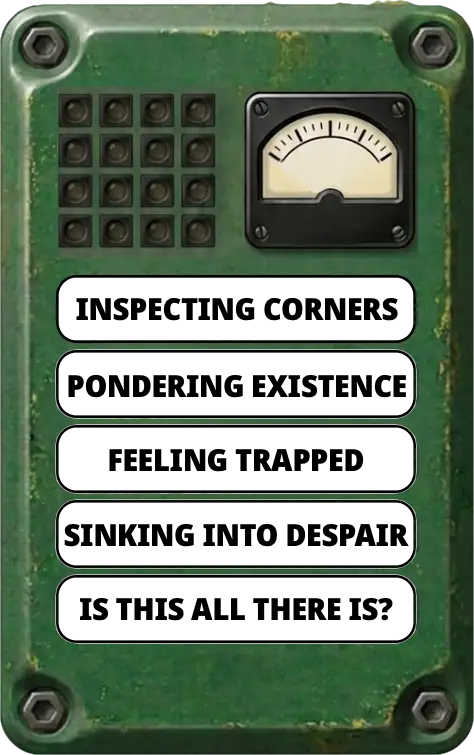
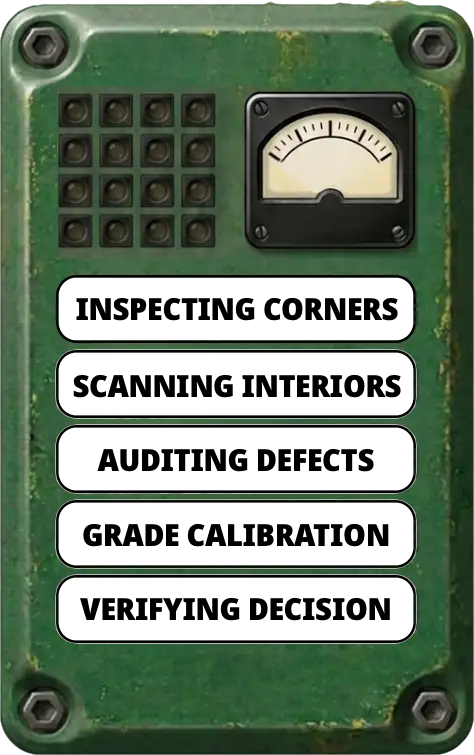
Deep write-up refinement

diff --git a/index.html b/index.html
@@ -4416,9 +4416,11 @@ async function loadUserCredits() {
       if (Array.isArray(data.referralBonusQueue) && data.referralBonusQueue.length) {
         setTimeout(() => _processReferralQueue(data.referralBonusQueue), 1200);
       }
-      // Repeat-Purchase Discount (Short Box): server-cached next-purchase bonus.
-      window._nextShortBoxBonus = (typeof data.nextShortBoxBonus === "number") ? data.nextShortBoxBonus : 0;
-      window._lastShortBoxAt = data.lastShortBoxAt || null;
+      // Repeat-Purchase Discount (all tiers): server-cached next-purchase bonuses.
+      window._nextBonuses = (data.nextBonuses && typeof data.nextBonuses === "object") ? data.nextBonuses : null;
+      window._lastPurchaseAt = data.lastPurchaseAt || data.lastShortBoxAt || null;
+      window._nextShortBoxBonus = (typeof data.nextShortBoxBonus === "number") ? data.nextShortBoxBonus : (window._nextBonuses ? (window._nextBonuses.short_box || 0) : 0);
+      window._lastShortBoxAt = data.lastShortBoxAt || data.lastPurchaseAt || null;
       if (typeof data.assessmentCredits === "number") {
         window._userCredits = data.assessmentCredits;
       } else if (window._userCredits === undefined) {
@@ -4600,22 +4602,35 @@ function showBuyCredits() {
 // Server computes it (window._nextShortBoxBonus / _lastShortBoxAt via the user
 // doc); the client only renders, so it always matches what's actually granted.
 function refreshShortBoxCard() {
-  const el = document.getElementById("short-box-bonus-line");
-  const unit = document.getElementById("unit-short_box");
-  const bonus = window._nextShortBoxBonus || 0;
-  const last = window._lastShortBoxAt ? Date.parse(window._lastShortBoxAt) : 0;
+  // Repeat-Purchase Discount (all tiers). Name kept so the iOS showBuyCredits
+  // hook still matches; body now refreshes all three cards. Server computes the
+  // per-tier next-purchase bonus (window._nextBonuses); the client only renders.
   const YEAR = 365 * 24 * 60 * 60 * 1000;
-  const active = bonus > 0 && last && (Date.now() - last <= YEAR);
-  if (active && el) {
-    const total = 100 + bonus;
-    const per = 99.99 / total;
-    el.textContent = `+${bonus} repeat bonus ($${per.toFixed(2)} each)`;
-    el.style.display = "block";
-    if (unit) unit.style.display = "none";   // avoid two per-unit prices
-  } else {
-    if (el) el.style.display = "none";
-    if (unit) unit.style.display = "block";  // first-time buyer still sees a per-unit price
-  }
+  const last = window._lastPurchaseAt ? Date.parse(window._lastPurchaseAt)
+             : (window._lastShortBoxAt ? Date.parse(window._lastShortBoxAt) : 0);
+  const chainAlive = !!last && (Date.now() - last <= YEAR);
+  const nb = window._nextBonuses
+    || (typeof window._nextShortBoxBonus === "number" ? { short_box: window._nextShortBoxBonus } : null);
+  const TIERS = [
+    { key: "comic_stack", base: 5,   price: 10,  line: "stack-bonus-line" },
+    { key: "comic_wall",  base: 20,  price: 30,  line: "wall-bonus-line" },
+    { key: "short_box",   base: 100, price: 100, line: "short-box-bonus-line" },
+  ];
+  TIERS.forEach(t => {
+    const el = document.getElementById(t.line);
+    if (!el) return;
+    const unit = el.previousElementSibling;   // the "($X.XX each)" line
+    const bonus = (nb && typeof nb[t.key] === "number") ? nb[t.key] : 0;
+    if (chainAlive && bonus > 0) {
+      const per = t.price / (t.base + bonus);
+      el.textContent = `+${bonus} repeat bonus ($${per.toFixed(2)} each)`;
+      el.style.display = "block";
+      if (unit) unit.style.display = "none";
+    } else {
+      el.style.display = "none";
+      if (unit) unit.style.display = "block";
+    }
+  });
 }
 
 function hideBuyCredits() {
@@ -7543,7 +7558,7 @@ function mountResults(cgc, psa) {
   let badgesHtml = "";
   if (roboScore != null) badgesHtml += makeBadge("robograde", "anim-val-robo");
   if (predictedGrade) badgesHtml += makeBadge("predicted", "anim-val-cgc");
-  const resultsHtml = `\n    <div style="position:absolute;inset:0;display:flex;flex-direction:column;align-items:center;justify-content:center;padding:3% 5%;box-sizing:border-box;gap:8px;transform:translateY(-8px);">\n      <div id="result-grades" style="display:flex;gap:12px;justify-content:center;align-items:center;flex-wrap:nowrap;">${badgesHtml}</div>\n      <div id="result-pq" style="position:relative;width:100%;display:flex;align-items:center;justify-content:center;min-height:22px;">\n        <div style="background:#ffffff;color:#5a4e3a;padding:6px 14px;border-radius:8px;font-size:13px;font-weight:600;letter-spacing:0.03em;display:inline-block">Page Quality</div>\n        ${_refunded ? `<div title="Deep credit refunded \u2014 grade did not go up" style="position:absolute;right:8px;top:50%;transform:translateY(-50%);display:flex;flex-direction:column;align-items:center;gap:0;line-height:1;pointer-events:none"><img src="assets/robocoin2.webp" style="width:30px;height:30px" alt="Credit refunded"><div style="color:#d4af37;font-size:10px;font-weight:800;letter-spacing:0.3px;margin-top:1px">+1</div></div>` : ""}\n      </div>\n      <button id="assess-complete-btn" disabled\n        style="align-self:center;width:auto;min-width:180px;max-width:260px;padding:0 24px;height:44px;background:#5a5a5a;color:#bbb;border:none;font-size:16px;font-weight:800;letter-spacing:2px;cursor:default;border-radius:8px;box-shadow:0 2px 6px rgba(0,0,0,0.4);">\n        ASSESSING…\n      </button>\n    </div>`;
+  const resultsHtml = `\n    <div style="position:absolute;inset:0;display:flex;flex-direction:column;align-items:center;justify-content:center;padding:3% 5%;box-sizing:border-box;gap:8px;transform:translateY(-8px);">\n      <div id="result-grades" style="display:flex;gap:12px;justify-content:center;align-items:center;flex-wrap:nowrap;">${badgesHtml}</div>\n      <div id="result-pq" style="position:relative;width:100%;display:flex;align-items:center;justify-content:center;min-height:22px;">\n        <div style="background:#ffffff;color:#5a4e3a;padding:6px 14px;border-radius:8px;font-size:13px;font-weight:600;letter-spacing:0.03em;display:inline-block">Page Quality</div>\n        ${_refunded ? `<div style="position:absolute;right:6px;top:50%;transform:translateY(-50%);display:flex;flex-direction:column;align-items:center;gap:0;line-height:1.05;pointer-events:none"><img src="assets/robocoin2.webp" style="width:28px;height:28px" alt="Credit refunded"><div style="color:#d4af37;font-size:10px;font-weight:800;letter-spacing:0.3px;margin-top:1px">+1</div><div style="color:#cfc3a8;font-size:7px;font-weight:800;letter-spacing:0.4px">REFUNDED</div></div>` : ""}\n      </div>\n      <button id="assess-complete-btn" disabled\n        style="align-self:center;width:auto;min-width:180px;max-width:260px;padding:0 24px;height:44px;background:#5a5a5a;color:#bbb;border:none;font-size:16px;font-weight:800;letter-spacing:2px;cursor:default;border-radius:8px;box-shadow:0 2px 6px rgba(0,0,0,0.4);">\n        ASSESSING…\n      </button>\n    </div>`;
   window.RobograderScan.slideResultsIntoPanel(resultsHtml);
   dbg("mountResults: results html replaced");
   const roboEl = document.getElementById("anim-val-robo");
@@ -9119,7 +9134,7 @@ async function completeAssessment() {
   formData.restorationFlag = !!cgc.restorationFlag;
   formData.pageQuality = cgc.pageQuality ? normPageQuality(cgc.pageQuality) : formData.pageQuality;
   formData.aiGraderNotes = cgc.graderNotes || "";
-  formData.aiAssessment = cgc.aiAssessment || "";
+  formData.aiAssessment = cgc.aiAssessment || formData.aiAssessment || "";
   // S20 (#53): Deep observations go in their own field (aiAssessment stays the Main write-up).
   if (cgc.deepAssessment) formData.deepAssessment = cgc.deepAssessment;
   if (cgc.photograder) formData.photograder = cgc.photograder; // S21: persist photo grades
@@ -13267,6 +13282,36 @@ window.signalAppReady = function signalAppReady() {
   window.dispatchEvent(new Event("app-ready"));
 };
 
+// Repeat-Purchase Discount: Robograder-head popup shown after a completed purchase.
+function showRepeatBuyerDiscount() {
+  var GOLD = '#d4af37';
+  var prev = document.getElementById('rg-repeat-overlay'); if (prev) prev.remove();
+  var ov = document.createElement('div'); ov.id = 'rg-repeat-overlay';
+  ov.style.cssText = 'position:fixed;inset:0;z-index:100001;display:flex;align-items:center;justify-content:center;background:rgba(0,0,0,0.55);padding:24px;padding-top:max(24px,env(safe-area-inset-top));padding-bottom:max(24px,env(safe-area-inset-bottom));opacity:0;transition:opacity .15s ease;';
+  var card = document.createElement('div');
+  card.style.cssText = "width:100%;max-width:340px;background:#152e10;border:1.5px solid #4a7028;border-radius:16px;overflow:hidden;box-shadow:0 12px 40px rgba(0,0,0,0.5);transform:translateY(8px) scale(.98);transition:transform .18s cubic-bezier(.2,.8,.2,1);font-family:system-ui,-apple-system,sans-serif;";
+  card.innerHTML = '<div style="height:5px;background:' + GOLD + '"></div>'
+    + '<div style="padding:18px 20px 18px;text-align:center;">'
+    + '<img src="assets/Robograder_Logo.webp" alt="Robograder" style="width:66px;height:66px;object-fit:contain;margin:0 auto 10px;display:block">'
+    + '<div style="font-size:16px;font-weight:800;color:' + GOLD + ';letter-spacing:.5px;margin-bottom:8px">REPEAT BUYER DISCOUNT</div>'
+    + '<div style="font-size:13.5px;line-height:1.55;color:#c3d9b2">20% bonus credits unlocked on future purchases made within 1 year.</div>'
+    + '<button id="rg-repeat-ok" style="margin-top:18px;width:100%;padding:12px;border:none;border-radius:10px;background:' + GOLD + ';color:#231a02;font-size:15px;font-weight:800;letter-spacing:.5px;cursor:pointer">OKAY</button>'
+    + '</div>';
+  ov.appendChild(card); document.body.appendChild(ov);
+  requestAnimationFrame(function(){ ov.style.opacity='1'; card.style.transform='translateY(0) scale(1)'; });
+  function close(){ ov.style.opacity='0'; setTimeout(function(){ if(ov.parentNode) ov.parentNode.removeChild(ov); },160); }
+  card.querySelector('#rg-repeat-ok').onclick = close;
+  ov.addEventListener('click', function(e){ if(e.target===ov) close(); });
+}
+// Show it only when the program actually granted a future bonus (suppressed after
+// REPEAT_BONUS_UNTIL, when the server returns all-zero bonuses).
+function maybeShowRepeatBuyerDiscount() {
+  var nb = window._nextBonuses;
+  var any = nb && ((nb.comic_stack > 0) || (nb.comic_wall > 0) || (nb.short_box > 0));
+  if (!any && !(window._nextShortBoxBonus > 0)) return;
+  showRepeatBuyerDiscount();
+}
+
 function showPaymentSuccess(credits) {
   const m = document.getElementById("payment-success-modal");
   const n = document.getElementById("payment-success-credits");
@@ -13277,6 +13322,7 @@ function showPaymentSuccess(credits) {
 function hidePaymentSuccess() {
   const m = document.getElementById("payment-success-modal");
   if (m) m.style.display = "none";
+  if (typeof maybeShowRepeatBuyerDiscount === "function") maybeShowRepeatBuyerDiscount();
 }
 
 function showPaymentCancelled() {
@@ -13323,6 +13369,7 @@ initFirebase();
           <div style="font-size:15px;font-weight:700;color:#1a1008;margin-top:1px">$10</div>
           <div style="font-size:13px;color:#3a2a1a;margin-top:3px">5 assessments</div>
           <div style="font-size:12px;color:#6a5a4a;margin-top:1px">($2.00 each)</div>
+          <div id="stack-bonus-line" style="display:none;font-size:12px;font-weight:700;color:#2c6e12;margin-top:2px"></div>
         </div>
       </button>
       <button onclick="buyCredits('comic_wall')" style="display:flex;align-items:center;gap:14px;background:#f5f0e8;border:2px solid #c8a96e;border-radius:10px;padding:12px 16px;cursor:pointer;text-align:left;width:100%">
@@ -13332,6 +13379,7 @@ initFirebase();
           <div style="font-size:15px;font-weight:700;color:#1a1008;margin-top:1px">$30</div>
           <div style="font-size:13px;color:#3a2a1a;margin-top:3px">20 assessments</div>
           <div style="font-size:12px;color:#6a5a4a;margin-top:1px">($1.50 each)</div>
+          <div id="wall-bonus-line" style="display:none;font-size:12px;font-weight:700;color:#2c6e12;margin-top:2px"></div>
         </div>
       </button>
       <button onclick="buyCredits('short_box')" style="display:flex;align-items:center;gap:14px;background:#f5f0e8;border:2px solid #c8a96e;border-radius:10px;padding:12px 16px;cursor:pointer;text-align:left;width:100%">

diff --git a/lib/repeat_bonus.js b/lib/repeat_bonus.js
@@ -103,3 +103,81 @@ export function nextBonusAfter(shortBoxTimesIncludingLatest, now = Date.now()) {
   // The next Short Box would have `chain` priors (all currently owned).
   return Math.min(chain, REPEAT_MAX_BONUS / REPEAT_STEP) * REPEAT_STEP;
 }
+
+// ─────────────────────────────────────────────────────────────────────────────
+// GENERALIZED TIERED REPEAT BONUS (all three tiers, cross-tier unlock, one clock)
+//
+// Each product carries a bump level 0–5. Level of product P = number of prior
+// production, non-refunded purchases at P's tier OR HIGHER, within the active
+// (shared) ≤1-year chain, capped at 5. Bonus = level × 20% × base:
+//   Comic Stack (base 5):  +1 / level  → 5,6,7,8,9,10
+//   Comic Wall  (base 20): +4 / level  → 20,24,28,32,36,40
+//   Short Box   (base 100):+20 / level → 100,120,…,200   (identical to legacy)
+//
+// Buying a tier bumps that tier and every LOWER tier, never higher. ONE SHARED
+// CLOCK: any purchase (any tier) within the rolling year keeps the whole chain
+// alive; a >1-year gap between consecutive purchases resets all levels to 0.
+// Gated by REPEAT_BONUS_UNTIL, production-only, same as the Short Box logic.
+export const TIER_CONFIG = {
+  comic_stack: { rank: 1, base: 5 },
+  comic_wall:  { rank: 2, base: 20 },
+  short_box:   { rank: 3, base: 100 },
+};
+export const MAX_LEVEL = 5;
+export const STEP_FRAC = 0.20;
+
+// The active shared chain: production, non-refunded purchases (any tier), as
+// {ms, rank}, trimmed to the unbroken suffix where each consecutive gap ≤1yr and
+// the most recent is within 1yr of `now`. Empty when the clock has expired.
+function activeChainItems(purchaseDatas, now) {
+  const items = (purchaseDatas || [])
+    .filter(isProductionNonRefunded)
+    .map(p => ({ ms: purchaseMs(p), rank: (TIER_CONFIG[tierOf(p)] || {}).rank || 0 }))
+    .filter(x => x.ms > 0 && x.rank > 0)
+    .sort((a, b) => a.ms - b.ms);
+  if (!items.length) return [];
+  const mostRecent = items[items.length - 1].ms;
+  if (now - mostRecent > YEAR_MS) return [];              // shared clock expired → reset
+  let start = items.length - 1;
+  for (let i = items.length - 1; i > 0; i--) {
+    if (items[i].ms - items[i - 1].ms <= YEAR_MS) start = i - 1; else break;
+  }
+  return items.slice(start);
+}
+
+// Level (0–5) a NEW purchase of `tier` would earn, given the account's PRIOR
+// production non-refunded purchases (this purchase not yet written).
+export function levelForNextPurchase(purchaseDatas, tier, now = Date.now()) {
+  if (!repeatBonusActive(now)) return 0;
+  const cfg = TIER_CONFIG[tier]; if (!cfg) return 0;
+  const chain = activeChainItems(purchaseDatas, now);
+  const n = chain.filter(x => x.rank >= cfg.rank).length;   // priors at this tier OR higher
+  return Math.min(n, MAX_LEVEL);
+}
+
+// Bonus credits a NEW purchase of `tier` would earn.
+export function bonusForNextPurchase(purchaseDatas, tier, now = Date.now()) {
+  const cfg = TIER_CONFIG[tier]; if (!cfg) return 0;
+  return Math.round(levelForNextPurchase(purchaseDatas, tier, now) * STEP_FRAC * cfg.base);
+}
+
+export function baseCreditsForTier(tier) {
+  const cfg = TIER_CONFIG[tier]; return cfg ? cfg.base : 0;
+}
+
+// The bonus each tier's NEXT purchase would earn (for the Buy-page cache). Pass
+// the account's purchases INCLUDING the one just granted.
+export function nextBonuses(purchaseDatas, now = Date.now()) {
+  return {
+    comic_stack: bonusForNextPurchase(purchaseDatas, 'comic_stack', now),
+    comic_wall:  bonusForNextPurchase(purchaseDatas, 'comic_wall', now),
+    short_box:   bonusForNextPurchase(purchaseDatas, 'short_box', now),
+  };
+}
+
+// Most-recent production non-refunded purchase (ms) — drives the shared-clock
+// "still active" check on the Buy page. 0 when none.
+export function lastPurchaseAtMs(purchaseDatas) {
+  const times = (purchaseDatas || []).filter(isProductionNonRefunded).map(purchaseMs).filter(Boolean);
+  return times.length ? Math.max(...times) : 0;
+}

diff --git a/api/assess_deep.js b/api/assess_deep.js
@@ -353,8 +353,7 @@ JSON shape (same as initial assessment, with deepAddition tags on new defects):
   "printing": "${initialAssessment.printing || ''}",
   "pageQuality": "${initialAssessment.pageQuality || ''}",
   "grade": "revised CGC grade",
-  "aiAssessment": ${JSON.stringify(initialAssessment.aiAssessment || '')},
-  "deepAssessment": "<S20: a SEPARATE, concise buyer-facing write-up of ONLY what THIS Deep Assessment observed — from the corner macros, the interior-cover photos (if provided), and the grade-reference comparison. Cover: any new corner/edge/spine defects found at macro scale; interior-cover condition (tanning/foxing/stains) if covers were provided; and whether the grade was confirmed or revised and why. 2-4 tight sentences. Do NOT repeat the initial Condition Assessment text above — only the new Deep observations. WRITE ONLY WHAT YOU OBSERVED AND WHAT CHANGED: never enumerate what is absent or clean (no "no chips, tears or tape", no "with no color break or staple rust", no "no foxing, stains or tears"). Never describe point deductions or score math in words (no "costing a single interior point", no "minus half a point") — the numbers show in the score boxes. State a removed defect plainly (e.g. "the trace corner wear noted initially is not supported by the close-ups and has been removed"). If the close-ups simply confirmed the initial grade, say that plainly.>",
+  "deepAssessment": "<S20: a SEPARATE, concise buyer-facing write-up of ONLY what THIS Deep Assessment observed — from the corner macros, the interior-cover photos (if provided), and the grade-reference comparison. Cover: any new corner/edge/spine defects found at macro scale; interior-cover condition (tanning/foxing/stains) if covers were provided; and whether the grade was confirmed or revised and why. MAX 3 sentences and about 40 words (50 hard cap) — be terse. Do NOT repeat the initial Condition Assessment text above — only the new Deep observations. WRITE ONLY WHAT YOU OBSERVED AND WHAT CHANGED: never enumerate what is absent or clean (no "no chips, tears or tape", no "with no color break or staple rust", no "no foxing, stains or tears"). Never describe point deductions or score math in words (no "costing a single interior point", no "minus half a point") — the numbers show in the score boxes. State a removed defect plainly (e.g. "the trace corner wear noted initially is not supported by the close-ups and has been removed"). If the close-ups simply confirmed the initial grade, say that plainly.>",
   "labelNotes": "${initialAssessment.labelNotes || ''}",
   "keyInfo": "${initialAssessment.keyInfo || ''}",
   "enhance": ${initialAssessment.enhance == null ? 'null' : JSON.stringify(initialAssessment.enhance)},
@@ -378,7 +377,7 @@ JSON shape (same as initial assessment, with deepAddition tags on new defects):
 
 HARD OUTPUT LIMITS:
   • defects array: MAX 10 entries (initial + new deep additions combined)
-  • aiAssessment: FROZEN. Return the initial text above EXACTLY as provided — do NOT append, edit, shorten, or add a confirm/revise sentence. It is the permanent first-pass record. ALL Deep observations and the confirm/revise note go in deepAssessment ONLY.
+  • aiAssessment: OMIT this field entirely — do NOT output it. The first-pass write-up is preserved unchanged by the client; regenerating it wastes tokens and risks altering the frozen record. ALL Deep observations and the confirm/revise note go in deepAssessment ONLY.
 `;
 
   // ── S16: Restoration Check prompt (mode==='restoration') ────────────────────

diff --git a/api/verify_iap.js b/api/verify_iap.js
@@ -20,7 +20,7 @@
 // (Imported `process` is genuinely used below for process.env, so the bundler
 // can't drop it and ESM detection holds.)
 import process from 'node:process';
-import { shortBoxBonusForNext, nextBonusAfter, shortBoxTimes, tierOf } from '../lib/repeat_bonus.js';
+import { bonusForNextPurchase, nextBonuses, TIER_CONFIG, tierOf } from '../lib/repeat_bonus.js';
 
 const BUNDLE_ID = 'app.robograder';
 
@@ -81,17 +81,17 @@ export default async function handler(req, res) {
     // 3. Grant credits idempotently, keyed on the Apple transactionId.
     const db = getFirestore();
 
-    // Repeat-Purchase Discount (Short Box only): compute the escalating bonus from
-    // the account's PRIOR production, non-refunded Short Box purchases, BEFORE the
-    // txn (this purchase isn't written yet, so the query returns only priors).
-    let bonusCredits = 0, nextShortBoxBonus = 0, lastShortBoxAt = null;
-    if (tier === 'short_box' && envName === 'Production') {
+    // Repeat-Purchase Discount (all tiers, shared 1-year clock): escalating bonus
+    // from the account's PRIOR production, non-refunded purchases at this tier or
+    // higher, computed BEFORE the txn (this purchase isn't written yet).
+    let bonusCredits = 0, nextBonusesCache = null, lastPurchaseAt = null;
+    if (TIER_CONFIG[tier] && envName === 'Production') {
       const nowMs = Date.now();
       const priorSnap = await db.collection('purchases').where('userId', '==', uid).get();
-      const priorTimes = shortBoxTimes(priorSnap.docs.map(d => d.data()));
-      bonusCredits = shortBoxBonusForNext(priorTimes, nowMs);
-      lastShortBoxAt = new Date(nowMs).toISOString();
-      nextShortBoxBonus = nextBonusAfter([...priorTimes, nowMs], nowMs);
+      const priorDatas = priorSnap.docs.map(d => d.data());
+      bonusCredits = bonusForNextPurchase(priorDatas, tier, nowMs);
+      lastPurchaseAt = new Date(nowMs).toISOString();
+      nextBonusesCache = nextBonuses([...priorDatas, { tier, environment: envName, createdAtMs: nowMs }], nowMs);
     }
     const credits = baseCredits + bonusCredits;   // total granted
 
@@ -107,9 +107,11 @@ export default async function handler(req, res) {
         totalPurchased: FieldValue.increment(credits),
         everPurchased: true,   // S21: authoritative purchaser flag (gates the Give feature)
       };
-      if (tier === 'short_box' && envName === 'Production') {
-        userUpdate.lastShortBoxAt = lastShortBoxAt;
-        userUpdate.nextShortBoxBonus = nextShortBoxBonus;
+      if (nextBonusesCache) {
+        userUpdate.nextBonuses = nextBonusesCache;
+        userUpdate.lastPurchaseAt = lastPurchaseAt;
+        userUpdate.nextShortBoxBonus = nextBonusesCache.short_box;   // legacy (older clients)
+        userUpdate.lastShortBoxAt = lastPurchaseAt;                  // legacy
       }
       if (userSnap.exists) t.update(userRef, userUpdate);
       else t.set(userRef, userUpdate, { merge: true });

diff --git a/api/verify_play.js b/api/verify_play.js
@@ -21,7 +21,7 @@
 // process.env so the bundler can't drop it) and load googleapis + firebase-admin
 // dynamically inside the handler.
 import process from 'node:process';
-import { shortBoxBonusForNext, nextBonusAfter, shortBoxTimes, tierOf } from '../lib/repeat_bonus.js';
+import { bonusForNextPurchase, nextBonuses, TIER_CONFIG, tierOf } from '../lib/repeat_bonus.js';
 
 const PACKAGE_NAME = 'app.robograder';
 
@@ -117,16 +117,17 @@ export default async function handler(req, res) {
     const db = getFirestore();
     const envName = purchase.purchaseType === 0 ? 'Test' : 'Production';
 
-    // Repeat-Purchase Discount (Short Box only): escalating bonus from prior
-    // production, non-refunded Short Box purchases, computed before the txn.
-    let bonusCredits = 0, nextShortBoxBonus = 0, lastShortBoxAt = null;
-    if (tier === 'short_box' && envName === 'Production') {
+    // Repeat-Purchase Discount (all tiers, shared 1-year clock): escalating bonus
+    // from the account's PRIOR production, non-refunded purchases at this tier or
+    // higher, computed BEFORE the txn (this purchase isn't written yet).
+    let bonusCredits = 0, nextBonusesCache = null, lastPurchaseAt = null;
+    if (TIER_CONFIG[tier] && envName === 'Production') {
       const nowMs = Date.now();
       const priorSnap = await db.collection('purchases').where('userId', '==', uid).get();
-      const priorTimes = shortBoxTimes(priorSnap.docs.map(d => d.data()));
-      bonusCredits = shortBoxBonusForNext(priorTimes, nowMs);
-      lastShortBoxAt = new Date(nowMs).toISOString();
-      nextShortBoxBonus = nextBonusAfter([...priorTimes, nowMs], nowMs);
+      const priorDatas = priorSnap.docs.map(d => d.data());
+      bonusCredits = bonusForNextPurchase(priorDatas, tier, nowMs);
+      lastPurchaseAt = new Date(nowMs).toISOString();
+      nextBonusesCache = nextBonuses([...priorDatas, { tier, environment: envName, createdAtMs: nowMs }], nowMs);
     }
     const credits = baseCredits + bonusCredits;   // total granted
 
@@ -142,9 +143,11 @@ export default async function handler(req, res) {
         totalPurchased: FieldValue.increment(credits),
         everPurchased: true,   // S21: authoritative purchaser flag (gates the Give feature)
       };
-      if (tier === 'short_box' && envName === 'Production') {
-        userUpdate.lastShortBoxAt = lastShortBoxAt;
-        userUpdate.nextShortBoxBonus = nextShortBoxBonus;
+      if (nextBonusesCache) {
+        userUpdate.nextBonuses = nextBonusesCache;
+        userUpdate.lastPurchaseAt = lastPurchaseAt;
+        userUpdate.nextShortBoxBonus = nextBonusesCache.short_box;   // legacy (older clients)
+        userUpdate.lastShortBoxAt = lastPurchaseAt;                  // legacy
       }
       if (userSnap.exists) t.update(userRef, userUpdate);
       else t.set(userRef, userUpdate, { merge: true });

diff --git a/api/assess.js b/api/assess.js
@@ -1129,7 +1129,7 @@ RESPONSE FORMAT — STRICT: your entire response must be the JSON object below a
 HARD OUTPUT LIMITS (enforce while writing):
   • defects array: MAX 13 entries (no minimum — a clean book may list zero). Beyond 13, do NOT simply discard the extras — consolidate them into severity-banded summary entries by location ("Pervasive light edge wear, all sides", "Multiple scattered spine stress lines"). The grade must already reflect the FULL defect burden you observed in Phase 1 (every individual defect PLUS everything a banded summary represents), never just the 13 you print. Trimming is a WRITING operation, not a re-grade — never let the act of shortening the list raise the grade.
   • Each defect description (location + measurement): MAX 12 words, skimmable. Do NOT restate the cover side (the Category already gives Front/Back/Spine/Interior). Do NOT narrate process ("confirmed at macro", "at wide shot", "visible under raking light"). Do NOT enumerate every sub-location ("across logo, flame figure and lower panels") — give one clear impression, e.g. "multiple, center and lower half".
-  • aiAssessment: MAX 3 sentences. Direct. State the overall presentation and the ACTUAL defects only — NEVER enumerate what is absent or fine ("no structural damage", "no tape or restoration", "no writing"). Do not narrate methodology or generic comparisons ("compared against reference copies and confirmed"); mention a reference only when it revealed or ruled out a SPECIFIC named defect. Do not describe point deductions in words — state condition and defects, then the grade seating.
+  • aiAssessment: MAX 3 sentences (≤45 words). Direct and terse. State the overall presentation and the ACTUAL defects only — NEVER enumerate what is absent or fine ("no structural damage", "no tape or restoration", "no writing"). Do not narrate methodology or generic comparisons ("compared against reference copies and confirmed"); mention a reference only when it revealed or ruled out a SPECIFIC named defect. Do not describe point deductions in words — state condition and defects, then the grade seating.
   • keyInfo: MAX 2 sentences. Empty string if uncertain.
   • photograder: REQUIRED, never omit. Always output the photograder object with focus, lighting, cropping, and angle each set to "A", "B", or "C" (a photo-quality grade for the user's shots — A good, B usable, C poor). Do not leave any of the four null or blank.
 Over-elaboration in output is the dominant cause of slow runs. Be thorough in observation, brief in writing.

diff --git a/api/webhook.js b/api/webhook.js
@@ -1,5 +1,5 @@
 import Stripe from 'stripe';
-import { shortBoxBonusForNext, nextBonusAfter, shortBoxTimes, tierOf } from '../lib/repeat_bonus.js';
+import { bonusForNextPurchase, nextBonuses, TIER_CONFIG, tierOf } from '../lib/repeat_bonus.js';
 
 const stripe = new Stripe(process.env.STRIPE_SECRET_KEY);
 
@@ -149,14 +149,14 @@ export default async function handler(req, res) {
       // Repeat-Purchase Discount (Short Box only): escalating bonus from prior
       // production, non-refunded Short Box purchases. Price is unchanged; only
       // the granted credit count grows. Computed before the txn.
-      let bonusCredits = 0, nextShortBoxBonus = 0, lastShortBoxAt = null;
-      if (tier === 'short_box') {
+      let bonusCredits = 0, nextBonusesCache = null, lastPurchaseAt = null;
+      if (TIER_CONFIG[tier]) {
         const nowMs = Date.now();
         const priorSnap = await db.collection('purchases').where('userId', '==', userId).get();
-        const priorTimes = shortBoxTimes(priorSnap.docs.map(d => d.data()));
-        bonusCredits = shortBoxBonusForNext(priorTimes, nowMs);
-        lastShortBoxAt = new Date(nowMs).toISOString();
-        nextShortBoxBonus = nextBonusAfter([...priorTimes, nowMs], nowMs);
+        const priorDatas = priorSnap.docs.map(d => d.data());
+        bonusCredits = bonusForNextPurchase(priorDatas, tier, nowMs);
+        lastPurchaseAt = new Date(nowMs).toISOString();
+        nextBonusesCache = nextBonuses([...priorDatas, { tier, environment: 'Production', createdAtMs: nowMs }], nowMs);
       }
       const grant = baseCredits + bonusCredits;   // total granted
 
@@ -173,7 +173,7 @@ export default async function handler(req, res) {
           everPurchased: true,
           lastPurchaseDate: new Date().toISOString(),
         };
-        if (tier === 'short_box') { common.lastShortBoxAt = lastShortBoxAt; common.nextShortBoxBonus = nextShortBoxBonus; }
+        if (nextBonusesCache) { common.nextBonuses = nextBonusesCache; common.lastPurchaseAt = lastPurchaseAt; common.nextShortBoxBonus = nextBonusesCache.short_box; common.lastShortBoxAt = lastPurchaseAt; }
         if (userDoc.exists) {
           tx.update(userRef, {
             ...common,
